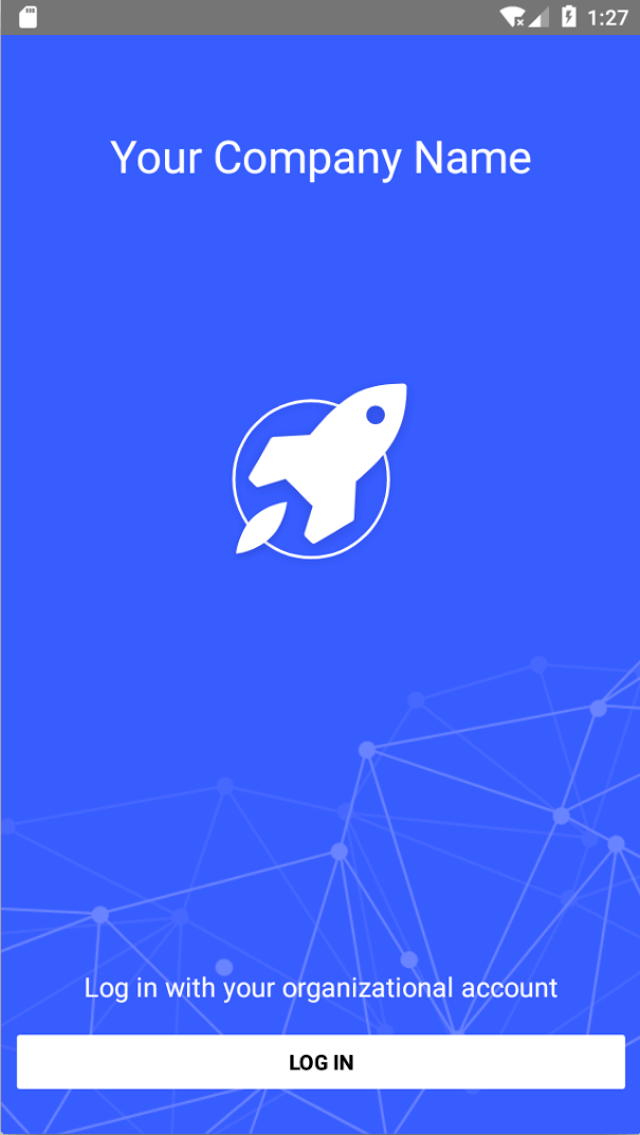
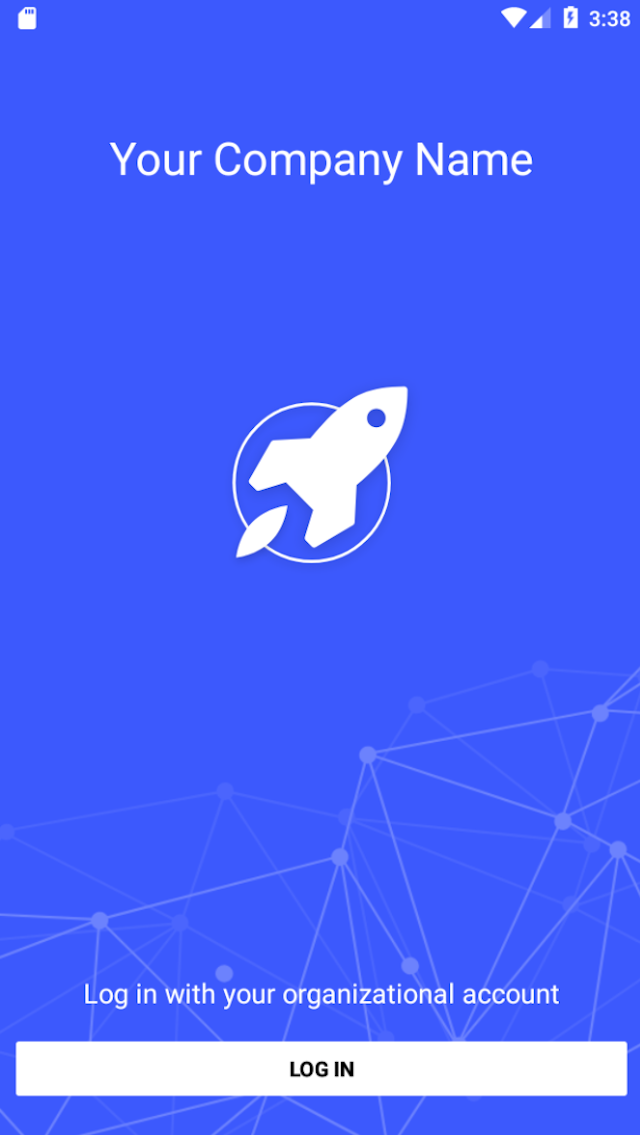
ux: status bar styles

diff --git a/login/login.component.ts b/login/login.component.ts
@@ -18,11 +18,7 @@ export class LoginComponent {
         this.page.actionBarHidden = true;
         this.page.backgroundSpanUnderStatusBar = true;
         this.page.className = "page-login-container";
-
-        if(platform.isAndroid) {
-            this.page.statusBarStyle = 'dark';
-            this.page.androidStatusBarBackground = new color.Color("#3C59FD");
-        }
+        this.page.statusBarStyle = "dark";
     }
 
     login() {

diff --git a/app.css b/app.css
@@ -55,6 +55,7 @@ refer to http://docs.nativescript.org/ui/theme.
 /* Login */
 .page-login-container {
     background-color: #3C59FD;
+    android-status-bar-background: #3C59FD;
 }
 .page-login {
     background-color: #3C59FD;
